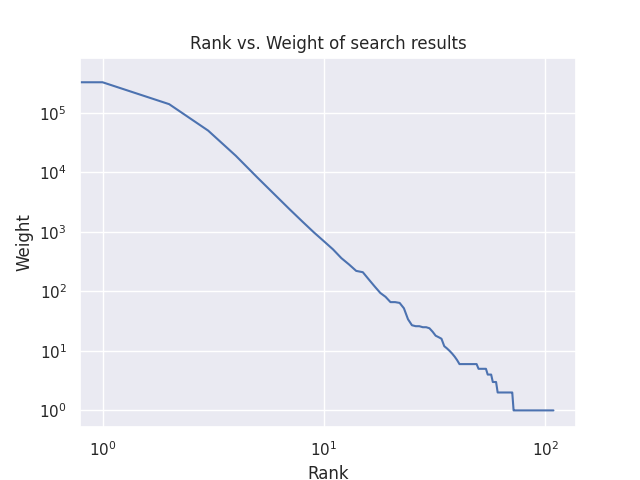
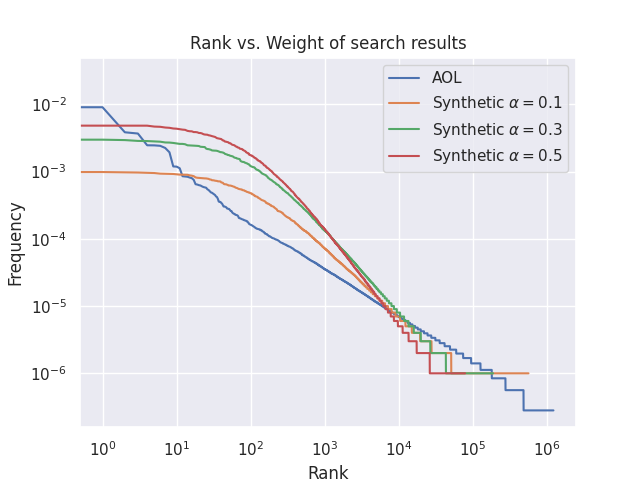
Add more simulation plots

diff --git a/Simulation Plots.py b/Simulation Plots.py
@@ -30,23 +30,29 @@ def load_data(path):
     unique_counts = df['Query'].value_counts()
     return df, unique_counts
 
-# df_train, unique_counts_train = load_data('data/fake_zipf_0.5_dataset/zipf_0.5_train.txt')
-df_train, unique_counts_train = load_data('data/AOL-user-ct-collection/user-ct-test-collection-01.txt')
-df, unique_counts = load_data('data/fake_zipf_1.0_dataset/zipf_1.0_test_1.txt')# load_data('data/AOL-user-ct-collection/user-ct-test-collection-02.txt')
+df_train, unique_counts_train = load_data('data/fake_0.1_dataset/train.txt')
+# df_train, unique_counts_train = load_data('data/AOL-user-ct-collection/user-ct-test-collection-01.txt')
+df, unique_counts = load_data('data/fake_0.1_dataset/test_1.txt')
+# df, unique_counts = load_data('data/AOL-user-ct-collection/user-ct-test-collection-02.txt')
+
+aol_df, aol_unique_counts = load_data('data/AOL-user-ct-collection/user-ct-test-collection-01.txt')
+fake_0_1_df, fake_0_1_unique_counts = load_data('data/fake_0.1_dataset/train.txt')
+fake_0_3_df, fake_0_3_unique_counts = load_data('data/fake_0.3_dataset/train.txt')
+fake_0_5_df, fake_0_5_unique_counts = load_data('data/fake_0.5_dataset/train.txt')
 
 # %%
+plt.plot(np.arange(len(aol_unique_counts)), aol_unique_counts / len(aol_df), label="AOL")
+plt.plot(np.arange(len(fake_0_1_unique_counts)), fake_0_1_unique_counts / len(fake_0_1_df), label="Synthetic $\\alpha=0.1$")
+plt.plot(np.arange(len(fake_0_3_unique_counts)), fake_0_3_unique_counts / len(fake_0_3_df), label="Synthetic $\\alpha=0.3$")
+plt.plot(np.arange(len(fake_0_5_unique_counts)), fake_0_5_unique_counts / len(fake_0_5_df), label="Synthetic $\\alpha=0.5$")
 
-# %%
-unique_counts
-
-# %%
-plt.plot(np.arange(len(unique_counts)), unique_counts)
 plt.xlabel('Rank')
-plt.ylabel('Weight')
+plt.ylabel('Frequency')
 plt.xscale('log')
 plt.yscale('log')
-plt.title('Rank vs. Weight of search results')
-plt.savefig('figs/aol_rank_weight')
+plt.legend()
+plt.title('Rank vs. Frequency of datasets')
+plt.savefig('figs/data_rank_freq', bbox_inches='tight')
 
 # %%
 pareto_dataset = np.floor(100 * (1 + np.random.pareto(0.5, size=1000000)))
@@ -79,30 +85,31 @@ plt.plot(unique_counts / len(df), oracle_guesses / len(df))
 # %%
 sim_folder = "simulation/results"
 
-deg3_results = pd.read_csv(f"{sim_folder}/deg=3/deg=3_zipf_0.5_results.csv")# pd.read_csv(f"{sim_folder}/deg=3/deg=3_aol_results.csv")
-deg4_results = pd.read_csv(f"{sim_folder}/deg=4/deg=4_zipf_0.5_results.csv")# pd.read_csv(f"{sim_folder}/deg=4/deg=4_aol_results.csv")
+deg3_aol, deg4_aol = pd.read_csv(f"{sim_folder}/new_deg=3_aol_results.csv"), pd.read_csv(f"{sim_folder}/new_deg=4_aol_results.csv")
+deg3_0_1, deg4_0_1 = pd.read_csv(f"{sim_folder}/new_deg=3_fake_0.1_results.csv"), pd.read_csv(f"{sim_folder}/new_deg=4_fake_0.1_results.csv")
+deg3_0_3, deg4_0_3 = pd.read_csv(f"{sim_folder}/new_deg=3_fake_0.3_results.csv"), pd.read_csv(f"{sim_folder}/new_deg=4_fake_0.3_results.csv")
+deg3_0_5, deg4_0_5 = pd.read_csv(f"{sim_folder}/new_deg=3_fake_0.5_results.csv"), pd.read_csv(f"{sim_folder}/new_deg=4_fake_0.5_results.csv")
+
 
 nsims = 30
 sample_sizes = [2**i for i in range(6, 17)]
-def read_sim_data(deg, sketch_type, sample_sizes):
-    df = deg3_results if deg == 3 else deg4_results
+def read_sim_data(df, sketch_type, sample_sizes):
     estimates = []
     exacts = []
     for k in sample_sizes:
         mask = (df["sketch_type"] == sketch_type) & (df["k"] == k)
-        print(df.loc[mask, "estimate"])
         estimates.append(df.loc[mask, "estimate"].apply(float.fromhex).to_numpy())
-        exacts.append(df.loc[mask, "exact"].to_numpy())
+        exacts.append(df.loc[mask, "exact"].apply(float).to_numpy())
     return np.array(estimates), np.array(exacts)
     
 def nth(deg):
     return "3rd" if deg == 3 else f"{deg}th"
 
 def error_prefix(err):
-    if err == "relative": return "rel"
-    if err == "absolute": return "abs"
-    if err == "binomial": return "bin"
-    if err == "test": return "test"
+    if err == "rel_0.05": return "relative"
+    if err == "abs_0.001": return "absolute"
+    if err == "train": return "train/test"
+    if err == "exact": return "no"
 
 
 # %%
@@ -126,7 +133,7 @@ def plot_abs_curve(ax, x, results, true_value, label, color):
     ax.legend()
 
 def plot_mse(ax, x, results, true_value, label, color, linestyle='solid'):
-    mse = np.sqrt(np.mean((results - true_value)**2, axis=1)) / true_value
+    mse = np.sqrt(np.mean(((results - true_value) / true_value)**2, axis=1))
     
     ax.plot(x, mse, label=label, color=color, linestyle=linestyle)
     ax.legend()
@@ -140,7 +147,7 @@ def plot_error_sample_size(deg, error_type):
 
     prefix = error_prefix(error_type)
     
-    ppswor_results = [read_sim_data(deg, "ppswor", f"k={k}_deg={deg}") for k in sample_sizes]
+    # ppswor_results = [read_sim_data(deg, "ppswor", f"k={k}_deg={deg}") for k in sample_sizes]
     swa_1_results = [read_sim_data(deg, f"swa_{prefix}", f"k=0-{k}-0_ep={ep}_deg={deg}") for k in sample_sizes]
     swa_2_results = [read_sim_data(deg, f"swa_{prefix}", f"k=0-{k//2}-{k//2}_ep={ep}_deg={deg}") for k in sample_sizes]
     swa_3_results = [read_sim_data(deg, f"swa_{prefix}", f"k={k//2}-{k//2}-0_ep={ep}_deg={deg}") for k in sample_sizes]
@@ -662,3 +669,171 @@ def plot_bucketing_kh_sketches(deg):
 
 plot_bucketing_kh_sketches(3)
 # plot_bucketing_kh_sketches(4)
+
+# %%
+# Plot NRMSE error for SWA, per oracle error type
+
+def plot_swa_nrmse(deg, df, df_name, df_prefix):
+    fig, ax = plt.subplots(1, 3, sharex=True, sharey=True, figsize=(15, 5))
+    error_types = ["rel_0.05", "abs_0.001", "train"]
+    
+    for i, error_type in enumerate(error_types):
+        swa_1_results, swa_1_exacts = read_sim_data(df, f"swa_{error_type}_kh=0_kp=k_ku=0", sample_sizes)
+        swa_2_results, swa_2_exacts = read_sim_data(df, f"swa_{error_type}_kh=k/2_kp=k/2_ku=0", sample_sizes)
+        swa_3_results, swa_3_exacts = read_sim_data(df, f"swa_{error_type}_kh=0_kp=k/2_ku=k/2", sample_sizes)
+        
+        plot_mse(ax[i], sample_sizes, swa_1_results, swa_1_exacts, "$k_h = 0, k_p = k, k_u = 0$", 'b')
+        plot_mse(ax[i], sample_sizes, swa_2_results, swa_2_exacts, "$k_h = \\frac{k}{2}, k_p = \\frac{k}{2}, k_u = 0$", 'r')
+        plot_mse(ax[i], sample_sizes, swa_3_results, swa_3_exacts, "$k_h = 0, k_p = \\frac{k}{2}, k_u = \\frac{k}{2}$", 'g')
+
+        error_name = error_prefix(error_type)
+        ax[i].set_title(f'{error_name} error')
+    
+    # ax[0].axhline(actual_value, label="L2 Norm", c='black', linestyle='dashed')
+    # ax[1].axhline(actual_value, label="L2 Norm", c='black', linestyle='dashed')
+    
+    ax[0].set_xscale('log')
+    ax[0].set_yscale('log')
+
+    ax[0].set_xticks(sample_sizes, sample_sizes, rotation='vertical')
+    ax[1].set_xticks(sample_sizes, sample_sizes, rotation='vertical')
+    ax[2].set_xticks(sample_sizes, sample_sizes, rotation='vertical')
+    
+    fig.supxlabel('Sample size', y=-0.1)
+    fig.supylabel('Normalized Root MSE')
+
+    fig.suptitle(f'{nth(deg)} Frequency Moment NRMSE vs. Sample Size on {df_name} data, SWA Sketch')
+
+    fig.legend(*ax[2].get_legend_handles_labels(), bbox_to_anchor=(0.9, 0.5), loc='center left')
+    ax[0].get_legend().remove()
+    ax[1].get_legend().remove()
+    ax[2].get_legend().remove()
+    
+    plt.savefig(f'figs/freq_{deg}_moment_swa_{df_prefix}_nrmse', bbox_inches='tight')
+    plt.show()
+
+plot_swa_nrmse(3, deg3_aol, 'AOL', 'aol')
+plot_swa_nrmse(4, deg4_aol, 'AOL', 'aol')
+plot_swa_nrmse(3, deg3_0_1, 'Synthetic $\\alpha=0.1$', 'fake_0_1')
+plot_swa_nrmse(4, deg4_0_1, 'Synthetic $\\alpha=0.1$', 'fake_0_1')
+plot_swa_nrmse(3, deg3_0_3, 'Synthetic $\\alpha=0.3$', 'fake_0_3')
+plot_swa_nrmse(4, deg4_0_3, 'Synthetic $\\alpha=0.3$', 'fake_0_3')
+plot_swa_nrmse(3, deg3_0_5, 'Synthetic $\\alpha=0.5$', 'fake_0_5')
+plot_swa_nrmse(4, deg4_0_5, 'Synthetic $\\alpha=0.5$', 'fake_0_5')
+
+
+# %%
+# Plot estimation error for buckets, per oracle error type
+
+def plot_bucket_nrmse(deg, df, df_name, df_prefix):
+    fig, ax = plt.subplots(2, 3, sharex=True, sharey=True, figsize=(15, 5))
+    error_types = ["rel_0.05", "abs_0.001", "train"]
+    bucket_types = ["linear", "expo"]
+
+    for i, bucket_type in enumerate(bucket_types):
+        for j, error_type in enumerate(error_types):
+            bucket_expo_harm1_results, bucket_expo_harm1_exacts = read_sim_data(df, f"bucket_{bucket_type}_harm_{error_type}_k=k_kh=0", sample_sizes)
+            bucket_expo_harm2_results, bucket_expo_harm2_exacts = read_sim_data(df, f"bucket_{bucket_type}_harm_{error_type}_k=k/2_kh=k/2", sample_sizes)
+
+            bucket_expo_alt1_results, bucket_expo_alt1_exacts = read_sim_data(df, f"bucket_{bucket_type}_alt_{error_type}_k=k_kh=0", sample_sizes)
+            bucket_expo_alt2_results, bucket_expo_alt2_exacts = read_sim_data(df, f"bucket_{bucket_type}_alt_{error_type}_k=k/2_kh=k/2", sample_sizes)
+            
+            bucket_cond_results, bucket_cond_exacts = read_sim_data(df, f"cond_bucket_{error_type}_k=1_kh=k", sample_sizes)
+
+            plot_mse(ax[i][j], sample_sizes, bucket_expo_harm1_results, bucket_expo_harm1_exacts, "Avg: $B = k, k_h = 0$", 'b')
+            plot_mse(ax[i][j], sample_sizes, bucket_expo_harm2_results, bucket_expo_harm2_exacts, "Avg: $B = \\frac{k}{2}, k_h = \\frac{k}{2}$", 'r')
+
+            plot_mse(ax[i][j], sample_sizes, bucket_expo_alt1_results, bucket_expo_alt1_exacts, "Alt: $B = k, k_h = 0$", 'g')
+            plot_mse(ax[i][j], sample_sizes, bucket_expo_alt2_results, bucket_expo_alt2_exacts, "Alt: $B = \\frac{k}{2}, k_h = \\frac{k}{2}$", 'y')
+
+            plot_mse(ax[i][j], sample_sizes, bucket_cond_results, bucket_cond_exacts, "Unbiased: $k_h = k$", 'pink')
+    
+            error_name = error_prefix(error_type)
+            bucket_name = "Linear" if bucket_type == "linear" else "Exponential"
+            ax[i][j].set_title(f'{bucket_name} bucket, {error_name} error')
+    
+    ax[0][0].set_xscale('log')
+    ax[0][0].set_yscale('log')
+
+    ax[1][0].set_xticks(sample_sizes, sample_sizes, rotation='vertical')
+    ax[1][1].set_xticks(sample_sizes, sample_sizes, rotation='vertical')
+    ax[1][2].set_xticks(sample_sizes, sample_sizes, rotation='vertical')
+    
+    fig.supxlabel('Sample size', y=-0.1)
+    fig.supylabel('Normalized Root MSE')
+
+    fig.suptitle(f'{nth(deg)} Frequency Moment NRMSE vs. Sample Size on {df_name} data, Bucketing Sketches')
+    
+    fig.legend(*ax[0][0].get_legend_handles_labels(), bbox_to_anchor=(0.9, 0.5), loc='center left')
+    ax[0][0].get_legend().remove()
+    ax[0][1].get_legend().remove()
+    ax[0][2].get_legend().remove()
+    ax[1][0].get_legend().remove()
+    ax[1][1].get_legend().remove()
+    ax[1][2].get_legend().remove()
+    
+    plt.savefig(f'figs/freq_{deg}_moment_bucket_{df_prefix}_nrmse', bbox_inches='tight')
+    plt.show()
+
+plot_bucket_nrmse(3, deg3_aol, 'AOL', 'aol')
+plot_bucket_nrmse(4, deg4_aol, 'AOL', 'aol')
+plot_bucket_nrmse(3, deg3_0_1, 'Synthetic $\\alpha=0.1$', 'fake_0_1')
+plot_bucket_nrmse(4, deg4_0_1, 'Synthetic $\\alpha=0.1$', 'fake_0_1')
+plot_bucket_nrmse(3, deg3_0_3, 'Synthetic $\\alpha=0.3$', 'fake_0_3')
+plot_bucket_nrmse(4, deg4_0_3, 'Synthetic $\\alpha=0.3$', 'fake_0_3')
+plot_bucket_nrmse(3, deg3_0_5, 'Synthetic $\\alpha=0.5$', 'fake_0_5')
+plot_bucket_nrmse(4, deg4_0_5, 'Synthetic $\\alpha=0.5$', 'fake_0_5')
+
+
+# %%
+# Plot NRMSE error comparing both sketches, per oracle error type
+
+def plot_both_nrmse(deg, df, df_name, df_prefix):
+    fig, ax = plt.subplots(1, 3, sharex=True, sharey=True, figsize=(15, 5))
+    error_types = ["rel_0.05", "abs_0.001", "train"]
+    
+    for i, error_type in enumerate(error_types):
+        swa_results, swa_exacts = read_sim_data(df, f"swa_{error_type}_kh=k/2_kp=k/2_ku=0", sample_sizes)
+        bucket_expo_harm_results, bucket_expo_harm_exacts = read_sim_data(df, f"bucket_expo_harm_{error_type}_k=k/2_kh=k/2", sample_sizes)
+        bucket_expo_alt_results, bucket_expo_alt_exacts = read_sim_data(df, f"bucket_expo_alt_{error_type}_k=k/2_kh=k/2", sample_sizes)
+        bucket_cond_results, bucket_cond_exacts = read_sim_data(df, f"cond_bucket_{error_type}_k=1_kh=k", sample_sizes)
+        
+        plot_mse(ax[i], sample_sizes, swa_results, swa_exacts, "SWA: $k_h = \\frac{k}{2}, k_p = \\frac{k}{2}, k_u = 0$", 'r')
+        plot_mse(ax[i], sample_sizes, bucket_expo_harm_results, bucket_expo_harm_exacts, "Exponential Bucket Avg:\n$B = \\frac{k}{2}, k_h = \\frac{k}{2}$", 'g')
+        plot_mse(ax[i], sample_sizes, bucket_expo_alt_results, bucket_expo_alt_exacts, "Exponential Bucket Alt:\n$B = \\frac{k}{2}, k_h = \\frac{k}{2}$", 'b')
+        plot_mse(ax[i], sample_sizes, bucket_cond_results, bucket_cond_exacts, "Bucket Unbiased: $k_h = k$", 'pink')
+
+        error_name = error_prefix(error_type)
+        ax[i].set_title(f'{error_name} error')
+    
+    # ax[0].axhline(actual_value, label="L2 Norm", c='black', linestyle='dashed')
+    # ax[1].axhline(actual_value, label="L2 Norm", c='black', linestyle='dashed')
+    
+    ax[0].set_xscale('log')
+    ax[0].set_yscale('log')
+
+    ax[0].set_xticks(sample_sizes, sample_sizes, rotation='vertical')
+    ax[1].set_xticks(sample_sizes, sample_sizes, rotation='vertical')
+    ax[2].set_xticks(sample_sizes, sample_sizes, rotation='vertical')
+    
+    fig.supxlabel('Sample size', y=-0.1)
+    fig.supylabel('Normalized Root MSE')
+
+    fig.suptitle(f'{nth(deg)} Frequency Moment NRMSE vs. Sample Size on {df_name} data, Comparing Sketches')
+
+    fig.legend(*ax[2].get_legend_handles_labels(), bbox_to_anchor=(0.9, 0.5), loc='center left')
+    ax[0].get_legend().remove()
+    ax[1].get_legend().remove()
+    ax[2].get_legend().remove()
+    
+    plt.savefig(f'figs/freq_{deg}_moment_both_{df_prefix}_nrmse', bbox_inches='tight')
+    plt.show()
+
+plot_both_nrmse(3, deg3_aol, 'AOL', 'aol')
+plot_both_nrmse(4, deg4_aol, 'AOL', 'aol')
+plot_both_nrmse(3, deg3_0_1, 'Synthetic $\\alpha=0.1$', 'fake_0_1')
+plot_both_nrmse(4, deg4_0_1, 'Synthetic $\\alpha=0.1$', 'fake_0_1')
+plot_both_nrmse(3, deg3_0_3, 'Synthetic $\\alpha=0.3$', 'fake_0_3')
+plot_both_nrmse(4, deg4_0_3, 'Synthetic $\\alpha=0.3$', 'fake_0_3')
+plot_both_nrmse(3, deg3_0_5, 'Synthetic $\\alpha=0.5$', 'fake_0_5')
+plot_both_nrmse(4, deg4_0_5, 'Synthetic $\\alpha=0.5$', 'fake_0_5')
